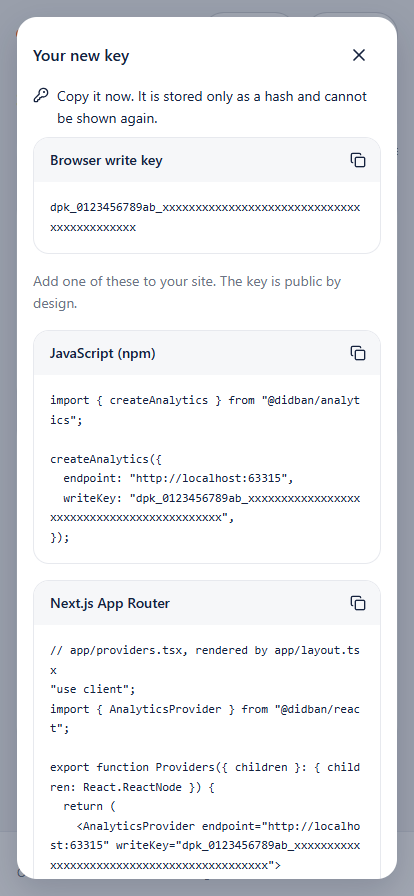
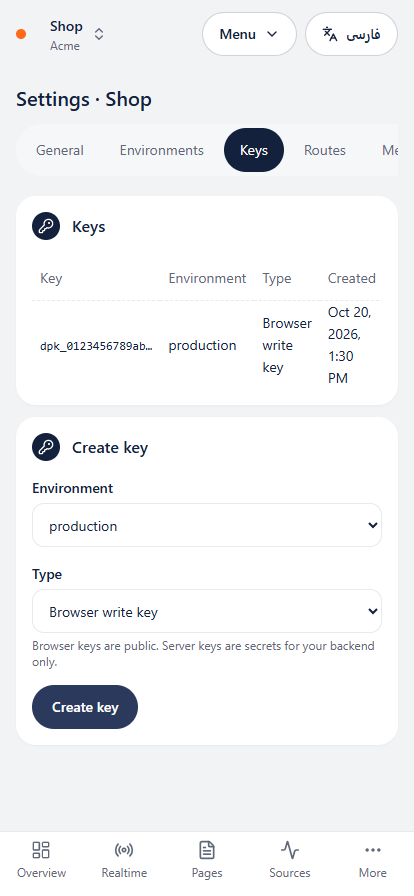
docs(progress): Stage 6b deploy, backup, restore on Linux and Windows; Overview LCP behind Caddy

diff --git a/docs/plan/progress.md b/docs/plan/progress.md
@@ -2,6 +2,18 @@
 
 Newest first. ≤ 10 lines per entry: what was done, checks run + result, what is next, open questions.
 
+## 2026-11-01 — Stage 6b (deploy, backup, restore on Linux + Windows; Overview LCP)
+
+- `deploy/` systemd unit (exposure 1.3 OK), Caddyfile (h2, CSP, health checks), Nginx sample, WinSW services;
+  `scripts/{deploy,backup,restore-check}.mjs` for Linux and Windows (owner: Windows too, no Docker). ADR 0047/0048.
+- Ubuntu 24.04 (WSL2): rolling deploy under traffic 0 errors after a fix: SIGTERM now drains 5 s with /ready 503
+  (was 2/3 000 lost). Deletion job resumed on the other instance after SIGTERM. Backup + restore check OK.
+  Windows: deploy (junction), backup, restore-check OK; WinSW services need an admin (not run). docs/deployment.md.
+- `?range=` stats (ADR 0046): Overview stats start with the project. Lighthouse behind Caddy h2: Overview en
+  2.0 s, fa 2.2 s, all pages ≤ 2.5 s; gain is h2, not the range (same LCP before/after). COOP breaks LH traces.
+- Checks: lint, typecheck, build ok (135.6 KB gz); test 40 + 68 + 156 + 250 + 5 (earlier runs: dashboard findBy
+  under load, a killed run's leftover test function); e2e 36/36. **Next:** 6c `/metrics`, load, `pnpm audit`.
+
 ## 2026-11-01 — Stage 6a (job runner, retention, data deletion)
 
 - Stage 6 split into 6a–6d (`docs/plan/phases.md`); design-system README muted token fixed.
